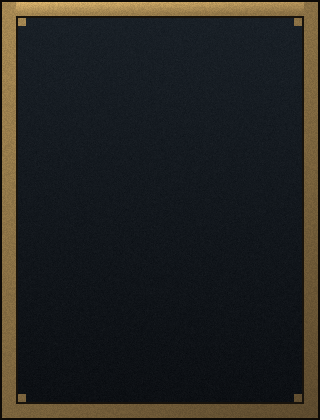
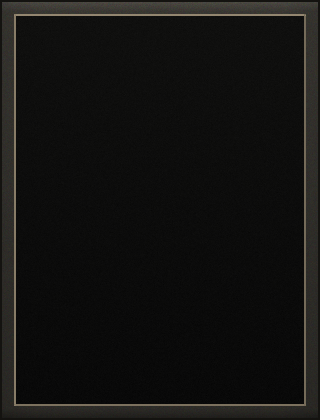
v228 SELECT v2 (Bude's new character-menu reference, Sept 13 DM): the new painted showcase IS the select screen — full-frame keyart backdrop behind the real card grid; card grammar to the ref's own palette (warm dark stone 57,55,50 frame, near-black interior, parchment-white name letters RGB 240,235

Changed region(s): [[0.0, 0.0, 1.0, 1.0], [0.8438, 0.2167, 0.875, 0.2476]]

diff --git a/unity/Assets/AvalonShell/Shell.cs b/unity/Assets/AvalonShell/Shell.cs
@@ -446,18 +446,18 @@ namespace AvalonShell
             var slab = new GameObject("slab-" + txt);
             slab.transform.SetParent(parent, false);
             var edge = slab.AddComponent<Image>();
-            edge.sprite = Rounded(); edge.color = new Color(0.42f, 0.34f, 0.21f, 0.85f);
+            edge.sprite = Rounded(); edge.color = new Color(0.61f, 0.557f, 0.463f, 0.92f);   // v228 warm tan edge RGB 155,142,118
             var ert = edge.rect();
             ert.anchorMin = new Vector2(ax0, ay0); ert.anchorMax = new Vector2(ax1, ay1);
             ert.offsetMin = Vector2.zero; ert.offsetMax = Vector2.zero;
             var face = new GameObject("face");
             face.transform.SetParent(slab.transform, false);
             var fim = face.AddComponent<Image>();
-            fim.sprite = Rounded(); fim.color = new Color(0.078f, 0.105f, 0.121f, 0.96f);
+            fim.sprite = Rounded(); fim.color = new Color(0.224f, 0.216f, 0.196f, 0.96f);   // v228 ref face RGB 57,55,50
             fim.rect().Stretch();
             var frt = fim.rect();
             frt.anchorMin = new Vector2(0.035f, 0.11f); frt.anchorMax = new Vector2(0.965f, 0.89f);
-            var lbl = Label(slab.transform, txt, 15, Hex(0xc2a367), TextAnchor.MiddleCenter);
+            var lbl = Label(slab.transform, txt, 15, Hex(0xf0ebde), TextAnchor.MiddleCenter);   // v228 parchment letters RGB 240,235,222
             lbl.rect().Stretch();
             // v228 plate-quality: the baked carved slab — the plate's own stone + carved bevels
             // behind the engraved label (Bude, Sept 13: "menu works just need make the quality better")
@@ -723,7 +723,22 @@ GameObject BuildSelect(Transform parent)
             // carved slabs at the plate's 88-93% band. Responsive grid + dual wiring untouched.
             var p = Panel(parent, "Select", new Color(0.055f, 0.078f, 0.090f, 1f));
             p.transform.Stretch();
-            var overline = Label(p.transform, "AVALON", 16, Hex(0xa3895a), TextAnchor.MiddleCenter);
+            // v228: Bude's new character-menu reference (Sept 13) IS the screen — painted
+            // showcase behind the real card grid; header lettering at the ref's own bands.
+            var bgSprite = Art("UI-CLASS-SELECT-V2-CANON");
+            if (bgSprite != null)
+            {
+                var bg = new GameObject("KeyArt");
+                bg.transform.SetParent(p.transform, false);
+                var bi = bg.AddComponent<Image>();
+                bi.sprite = bgSprite; bi.preserveAspect = true; bi.color = Color.white;
+                bi.raycastTarget = false;
+                bi.rect().Stretch();
+                var shade = Panel(p.transform, "Shade", new Color(0.02f, 0.03f, 0.04f, 0.14f));
+                shade.transform.Stretch();
+                shade.GetComponent<Image>().raycastTarget = false;
+            }
+            var overline = Label(p.transform, "AVALON", 16, Hex(0xf0ebde), TextAnchor.MiddleCenter);
             overline.rect().anchorMin = new Vector2(0, 0.965f); overline.rect().anchorMax = new Vector2(1, 1.02f);
             var head = Label(p.transform, "CHOOSE YOUR CLASS", 30, Hex(0xf0e6cf), TextAnchor.MiddleCenter);
             head.rect().anchorMin = new Vector2(0, 0.875f); head.rect().anchorMax = new Vector2(1, 0.962f);
@@ -732,7 +747,7 @@ GameObject BuildSelect(Transform parent)
             {
                 var cd = CLASSES[i];
                 bool unlocked = ModelPrefab(cd.name) != null;
-                var niche = Panel(p.transform, "card-" + cd.name, new Color(0.42f, 0.34f, 0.21f, 0.80f));
+                var niche = Panel(p.transform, "card-" + cd.name, new Color(0.224f, 0.216f, 0.196f, 0.92f));   // v228 ref stone RGB 57,55,50
             var frameSprite = SlicedArt("NICHE-FRAME", 16f, 16f, 16f, 16f);
             if (frameSprite != null)
             {
@@ -741,7 +756,7 @@ GameObject BuildSelect(Transform parent)
             }
                 var crt = niche.rect();
                 cardRects.Add(crt);
-                var face = Panel(niche.transform, "Face", new Color(0.078f, 0.105f, 0.121f, 0.94f));
+                var face = Panel(niche.transform, "Face", new Color(0.063f, 0.063f, 0.059f, 0.94f));   // v228 ref interior
                 var frt = face.rect();
                 frt.anchorMin = new Vector2(0.018f, 0.018f); frt.anchorMax = new Vector2(0.982f, 0.982f); frt.offsetMin = Vector2.zero; frt.offsetMax = Vector2.zero;
                 var art = Art("CLASS-" + cd.name.ToUpper() + "-CANON");
@@ -756,7 +771,7 @@ GameObject BuildSelect(Transform parent)
                     var bandRt = band.rect();
                     bandRt.anchorMin = new Vector2(0, 0); bandRt.anchorMax = new Vector2(1, 0.40f); bandRt.offsetMin = Vector2.zero; bandRt.offsetMax = Vector2.zero;
                 }
-                var nm = Label(niche.transform, cd.name.ToUpper(), 15, unlocked ? Hex(0xdcc38a) : Hex(0x6f6a5e), TextAnchor.MiddleCenter);
+                var nm = Label(niche.transform, cd.name.ToUpper(), 15, unlocked ? Hex(0xf0ebde) : Hex(0x6f6a5e), TextAnchor.MiddleCenter);   // v228 parchment letters
                 nm.rect().anchorMin = new Vector2(0, 0.22f); nm.rect().anchorMax = new Vector2(1, 0.38f);
                 var ro = Label(niche.transform, cd.role, 9, Hex(0xa3895a), TextAnchor.MiddleCenter);
                 ro.rect().anchorMin = new Vector2(0, 0.14f); ro.rect().anchorMax = new Vector2(1, 0.22f);
@@ -771,8 +786,8 @@ GameObject BuildSelect(Transform parent)
                 TapTo(crt, () => SelectCard(captured));
             }
 
-            CarvedBtn(p.transform, "BEGIN THE WAKENING", 0.26f, 0.62f, 0.065f, 0.125f, true, delegate { SetState(State.Game); });
-            CarvedBtn(p.transform, "BACK", 0.04f, 0.24f, 0.065f, 0.125f, true, delegate { SetState(State.Title); });
+            CarvedBtn(p.transform, "BEGIN THE WAKENING", 0.26f, 0.72f, 0.043f, 0.105f, true, delegate { SetState(State.Game); });   // v228: the ref's own BEGIN slab geometry
+            CarvedBtn(p.transform, "BACK", 0.04f, 0.24f, 0.043f, 0.105f, true, delegate { SetState(State.Title); });
             return p;
         }
 

diff --git a/tools/ui-slices/generate.py b/tools/ui-slices/generate.py
@@ -10,11 +10,11 @@ New grammar sampled from the refs:
   labels     RGB (240,235,222) parchment-white, engraved bright
 
 Outputs (art/ui/):
-  SLAB-CARVED-V2.png   960x160  text-free carved slab (stretch-rendered behind
+  SLAB-CARVED.png   960x160  text-free carved slab (stretch-rendered behind
                                  runtime Cinzel labels — text stays crisp)
-  NICHE-FRAME-V2.png   320x420  warm dark stone niche frame, 9-slice border 14px,
+  NICHE-FRAME.png   320x420  warm dark stone niche frame, 9-slice border 14px,
                                  near-black interior (class portraits render inside)
-  HERO-AVALON-V2.png   the title ref's own painted AVALON lettering band, cropped
+  HERO-AVALON.png   the title ref's own painted AVALON lettering band, cropped
 """
 from PIL import Image, ImageFilter
 import numpy as np
@@ -112,9 +112,9 @@ def hero_crop(src):
 
 if __name__ == "__main__":
     title_src = REF_TITLE if os.path.exists(REF_TITLE) else os.path.join(ROOT, "art", "approved", "UI-MAIN-MENU-V2-CANON.png")
-    carve_slab().save(os.path.join(OUT, "SLAB-CARVED-V2.png"))
-    carve_niche().save(os.path.join(OUT, "NICHE-FRAME-V2.png"))
-    hero_crop(title_src).save(os.path.join(OUT, "HERO-AVALON-V2.png"))
-    for f in ["SLAB-CARVED-V2.png", "NICHE-FRAME-V2.png", "HERO-AVALON-V2.png"]:
+    carve_slab().save(os.path.join(OUT, "SLAB-CARVED.png"))
+    carve_niche().save(os.path.join(OUT, "NICHE-FRAME.png"))
+    hero_crop(title_src).save(os.path.join(OUT, "HERO-AVALON.png"))
+    for f in ["SLAB-CARVED.png", "NICHE-FRAME.png", "HERO-AVALON.png"]:
         p = os.path.join(OUT, f)
         print(f, Image.open(p).size, f"{os.path.getsize(p)//1024}KB")

diff --git a/unity/Assets/AvalonShell/Editor/AvalonShellBuild.cs b/unity/Assets/AvalonShell/Editor/AvalonShellBuild.cs
@@ -44,7 +44,7 @@ namespace AvalonShell
 
             Directory.CreateDirectory("Assets/AvalonShell/Resources/Art");
             foreach (var art in new[] { "MAP1-COLD-RELIQUARY-ASHFALL-CANON.png",
-                "UI-MAIN-MENU-CANON.png", "UI-MAIN-MENU-V2-CANON.jpg", "UI-CLASS-SELECT-CANON.png",
+                "UI-MAIN-MENU-CANON.png", "UI-MAIN-MENU-V2-CANON.jpg", "UI-CLASS-SELECT-CANON.png", "UI-CLASS-SELECT-V2-CANON.png",
                 "CINEMATIC-TEASER-KEYART-CANON.png",
                 "CLASS-SOVEREIGN-CANON.png", "CLASS-RAVAGER-CANON.png", "CLASS-WARDEN-CANON.png",
                 "CLASS-VEILBORN-CANON.png", "CLASS-WEAVER-CANON.png", "CLASS-WILDBORN-CANON.png" })
